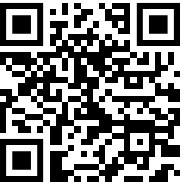
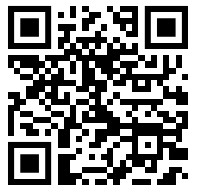
changed qr code & html link

diff --git a/webdeva2/index.html b/webdeva2/index.html
@@ -61,7 +61,7 @@
         </div> 
         <img src = "images/qrCode.jpg" alt = "Qr code link for mobile">
         <div class = "qrcode">Scan QR Code to access on mobile!
-            <a href = "https://chongchisengvincent.github.io/" target = "_blank">Link here</a>
+            <a href = "https://chongchisengvincent.github.io/webdeva2" target = "_blank">Link here</a>
         </div>
         <!-- text only shown on mobile -->
         <div class = "MobileOnly">
